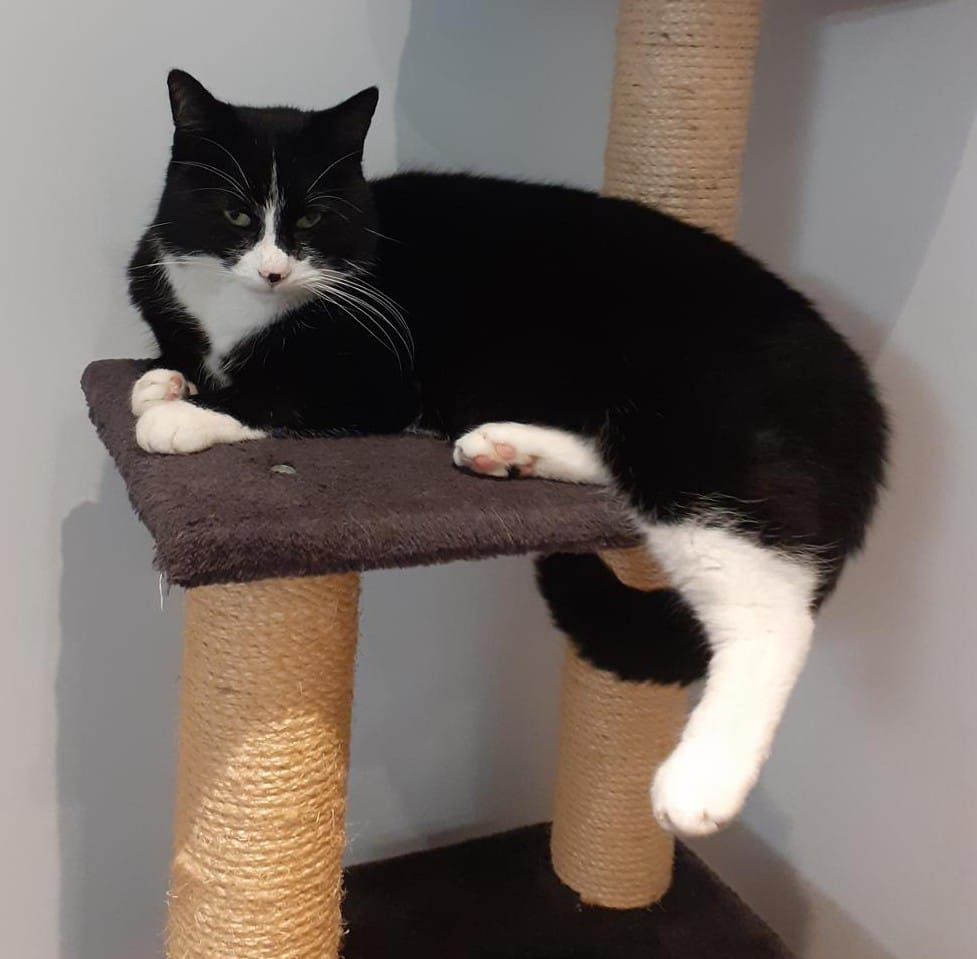
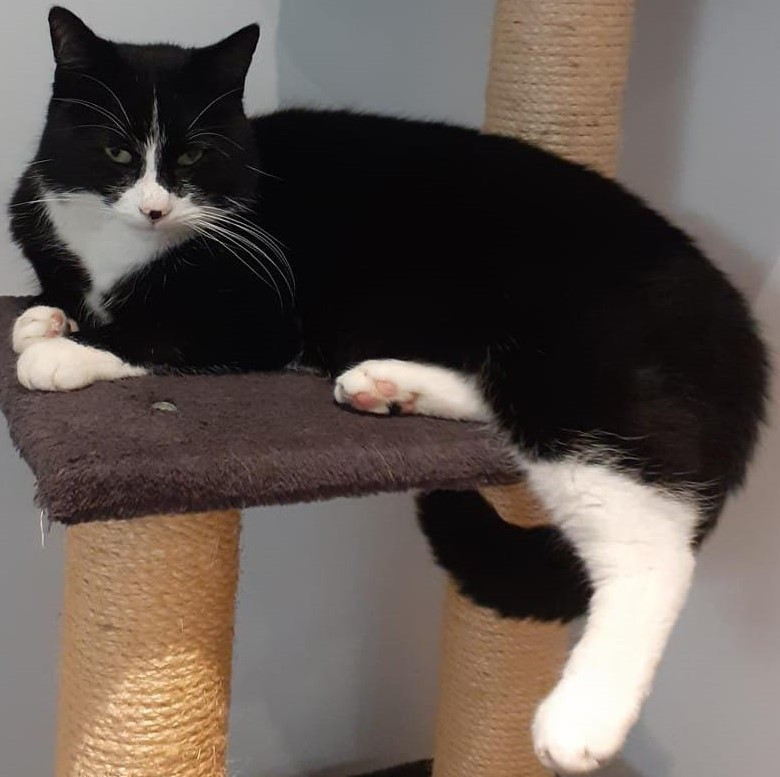
Fixed cat image

diff --git a/css/about.css b/css/about.css
@@ -69,9 +69,9 @@
 }
 
 .pets .pet-images img {
-    width: 30%;
-    height: auto;  
-    border-radius: 50%;
+    height: 280px;
+    width: auto;
+    border-radius: 15%;
     margin: 0 1em;
     object-fit: cover;
 }
